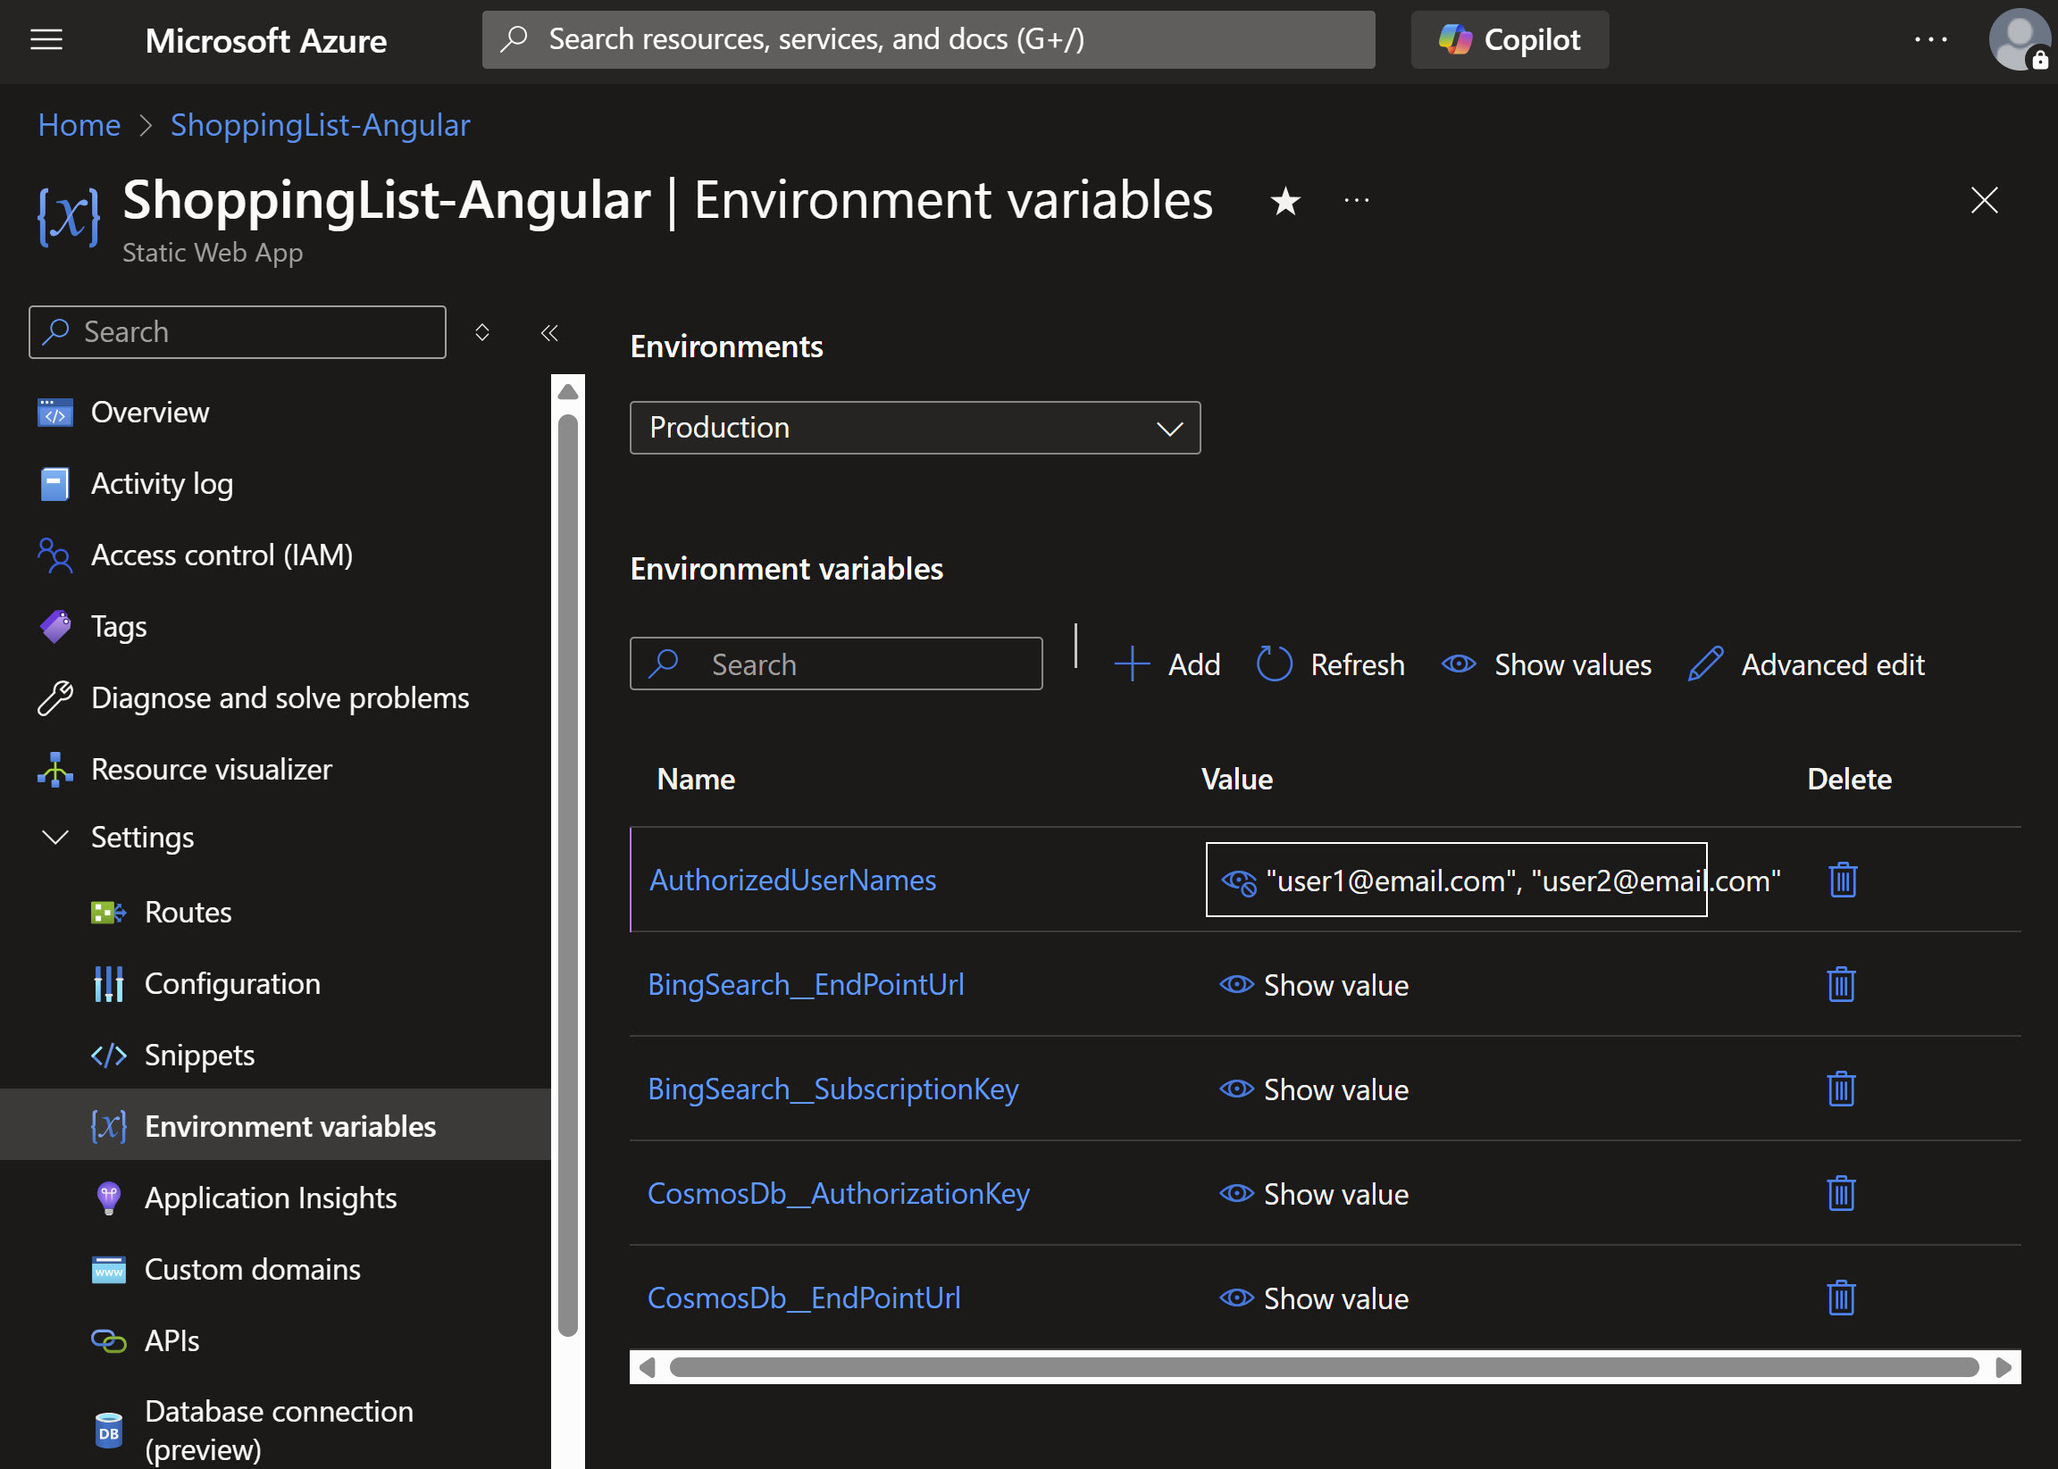
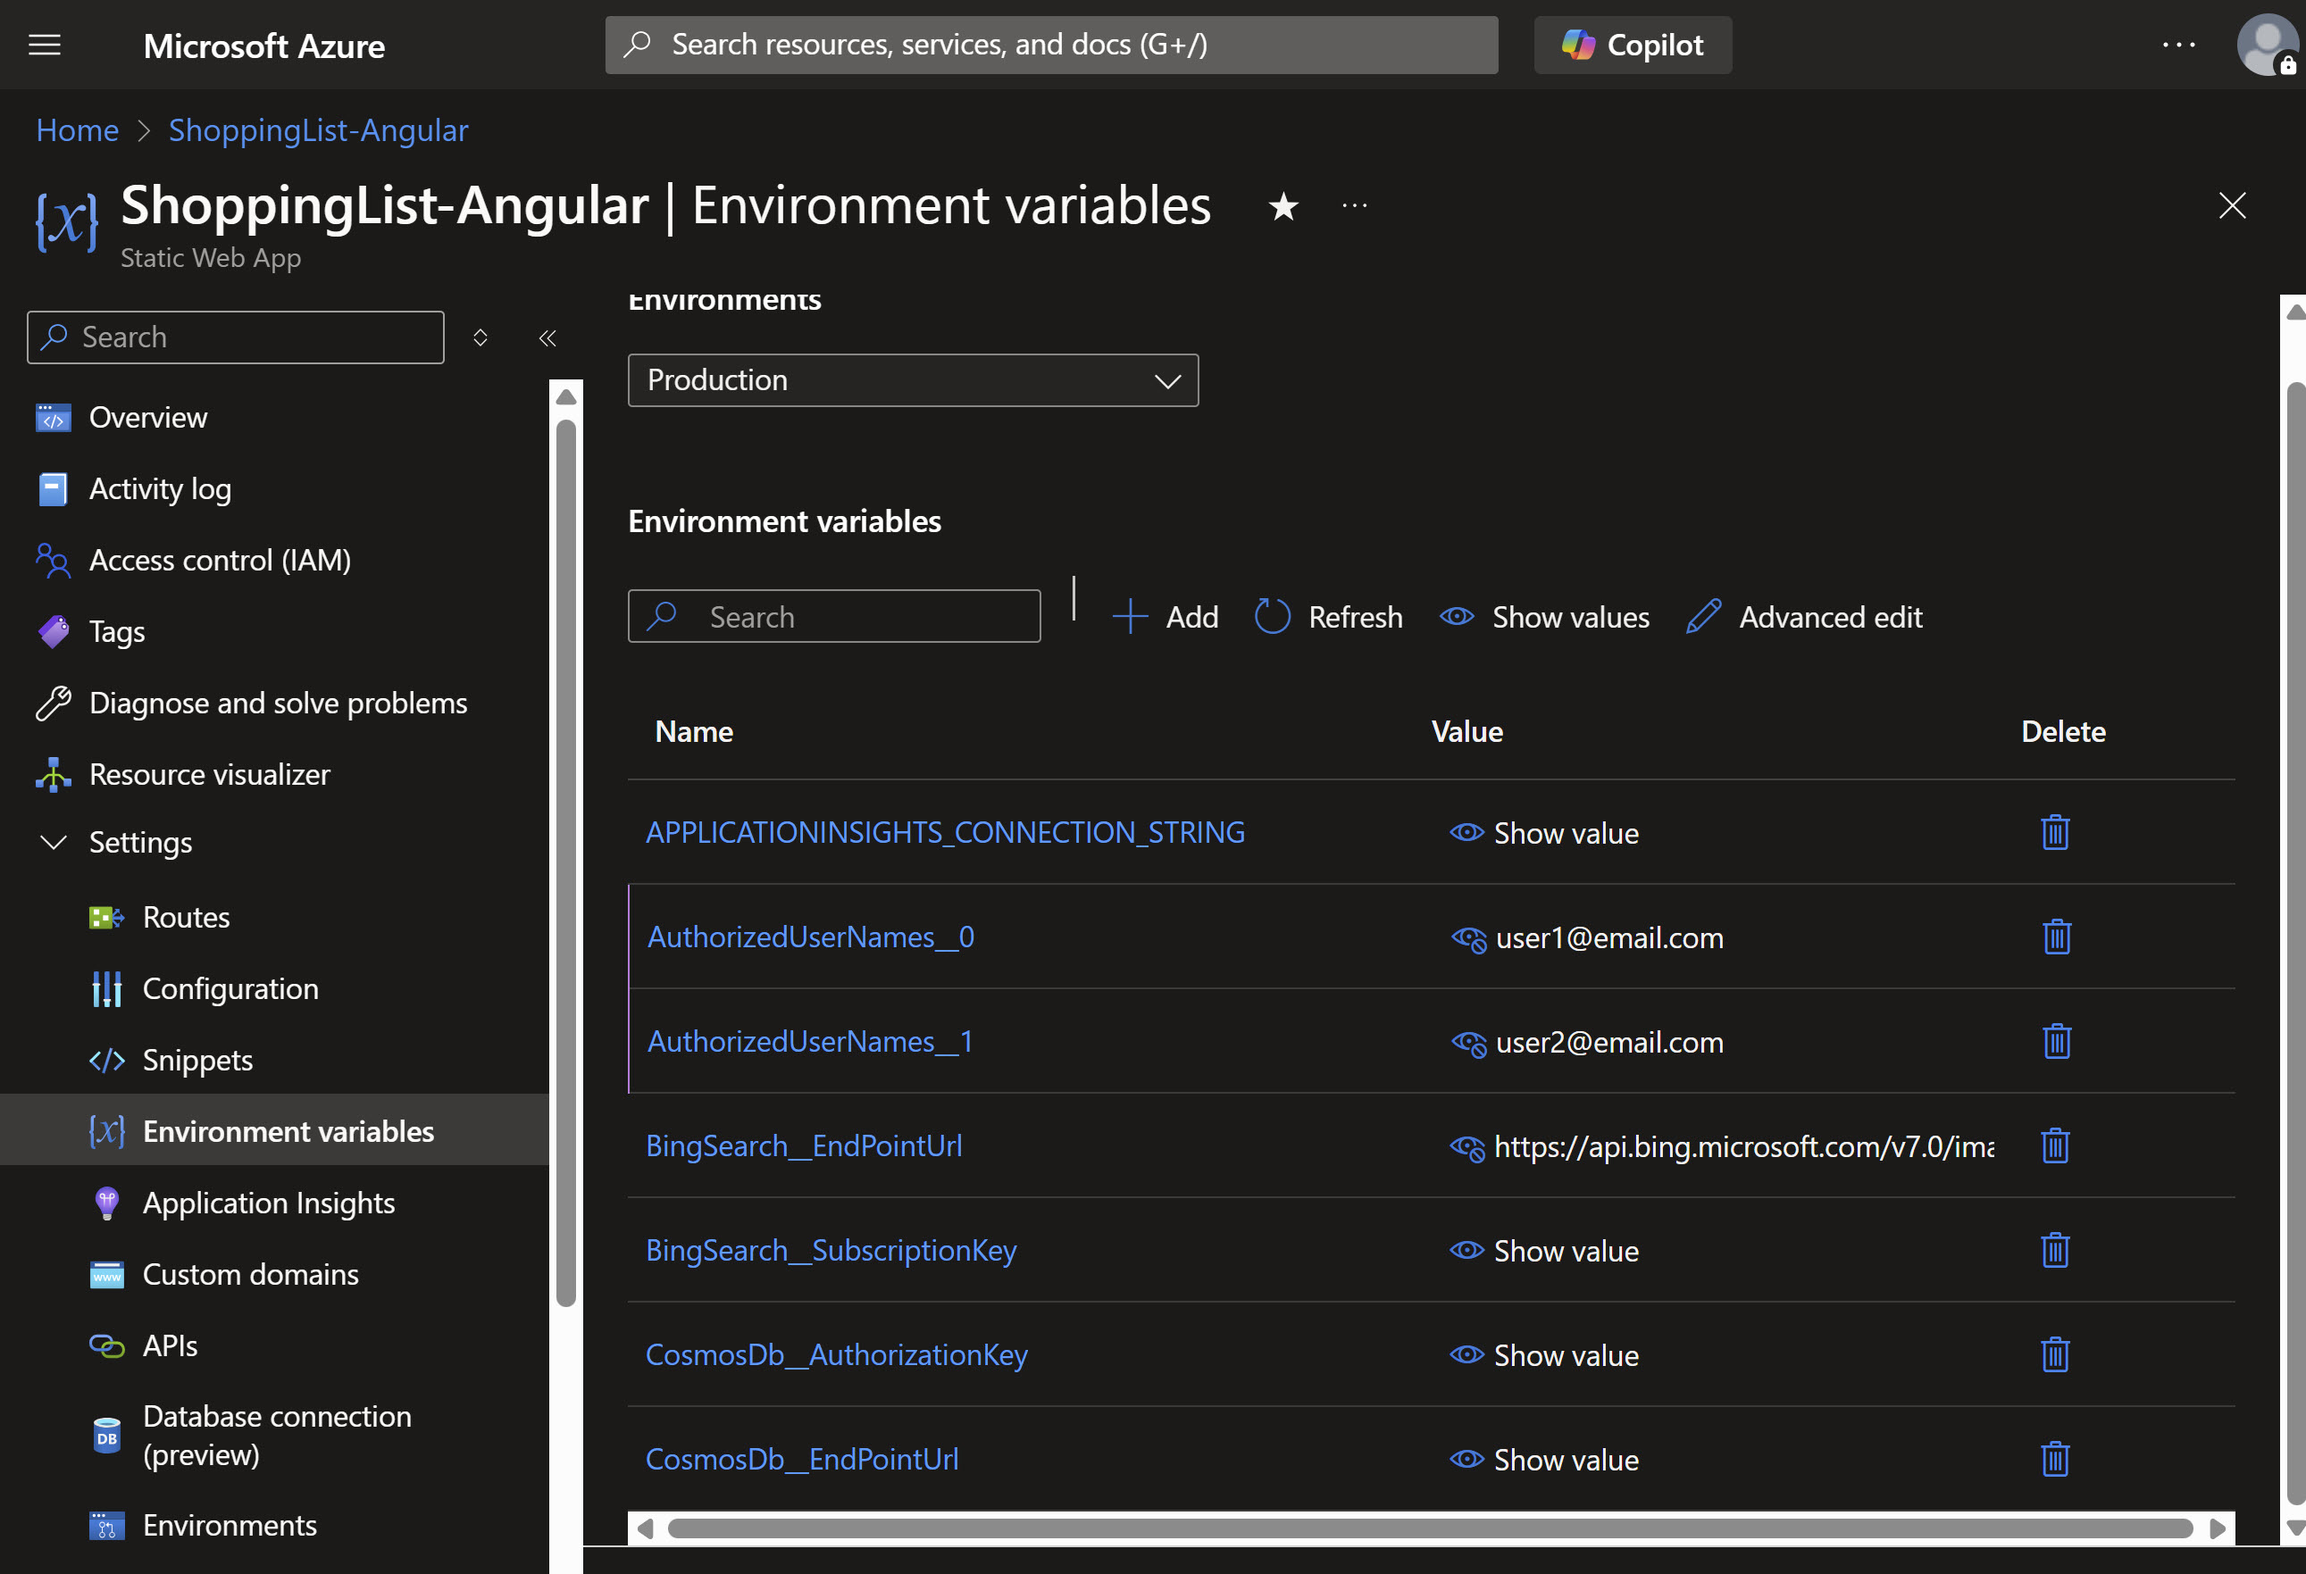
Update README

diff --git a/README.md b/README.md
@@ -73,7 +73,8 @@ Or use the shortcut defined in `package.json`:
 1. In the Azure Portal, navigate to the Configuration page for your Static Web App. Create four new application settings
    with the following names and values:
 
-   - `AuthorizedUserNames` - A comma-separated list of email addresses that are allowed to log in.
+   - `AuthorizedUserNames` - A list of usernames who are allowed to log in. In `appsettings.json` and `secrets.json`, this is
+     a comma-separated list of strings. In the Azure Static Web App configuration, each username is a separate entry with `__X` appended to the name, where `X` is a number starting at 0. For example, `AuthorizedUserNames__0`, `AuthorizedUserNames__1`, etc.
    - `BingSearch__EndpointUrl` - The URL of your Bing Search service. Find it on the Keys and Endpoint page of your Bing Search
      service.
    - `BingSearch__SubscriptionKey` - Your Bing Search subscription key. Find it on the Keys and Endpoint page of your Bing
